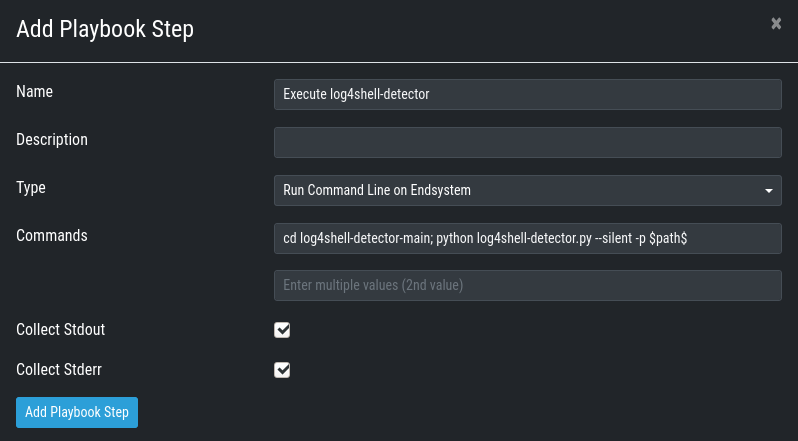
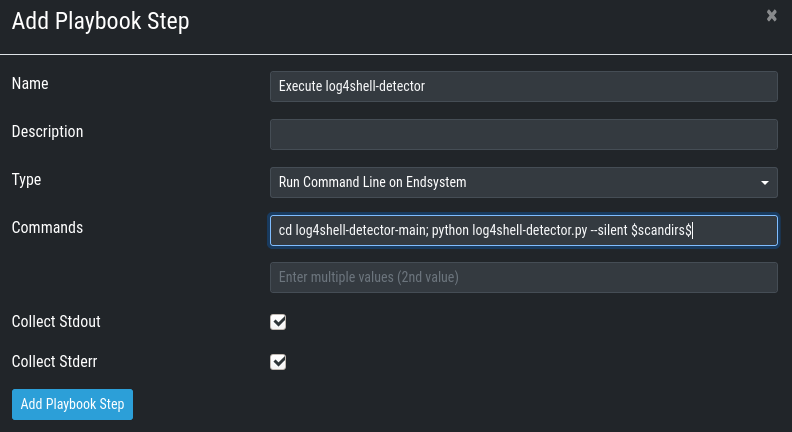
example for executing log4shell-detector script

diff --git a/log4shell-detector/README.md b/log4shell-detector/README.md
@@ -59,4 +59,13 @@ Text transcription of the screenshot:
 * Step 2:
 	* Name: Execute log4shell-detector
     * Type: Run Command Line on Endsystem
-    * Command: `cd log4shell-detector-main; python log4shell-detector.py --silent -p $path$`
+    * Command: `cd log4shell-detector-main; python log4shell-detector.py --silent $scandirs$`
+
+## Run a Task Example:
+You need to specify the location(s) which should be scanned.
+
+We suggest to use `--auto` to let the script look for log files, that are currently written to.
+
+If you want to enter specific direcories you can enter them using the `-p` flag (e.g. `-p /var/log /opt/myapp/logs`).
+
+![07.png](img/07.png)
